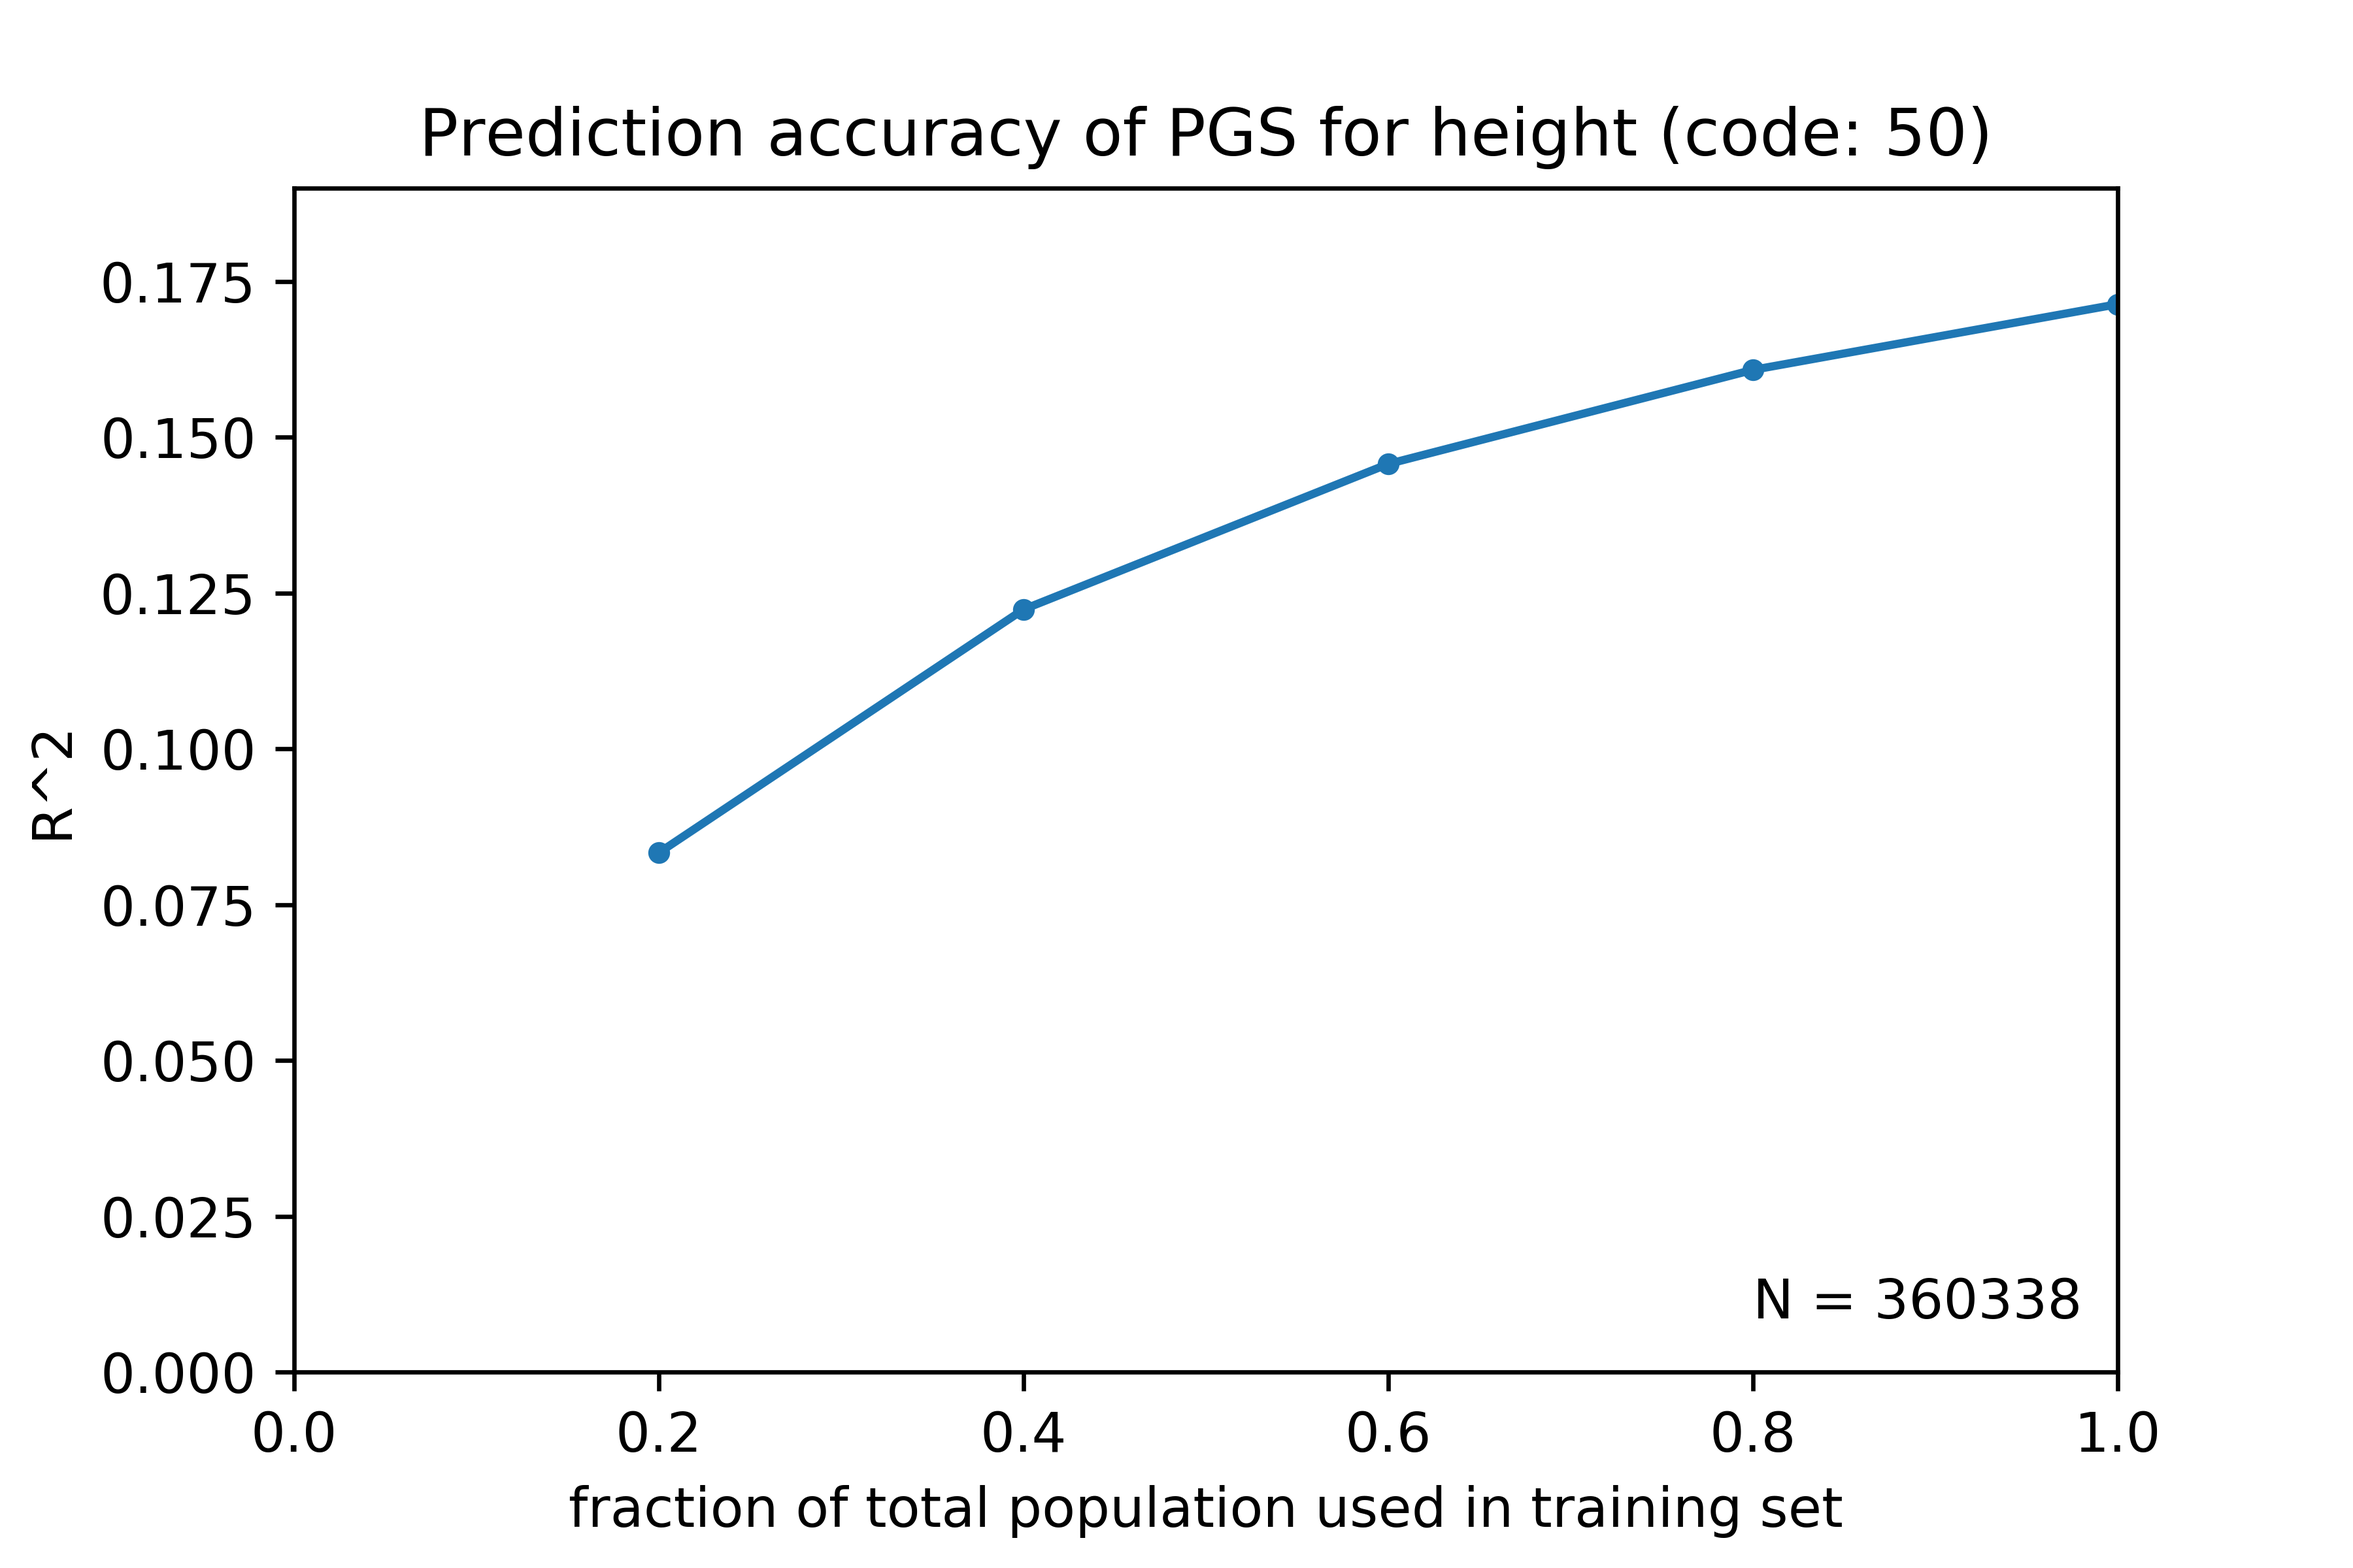
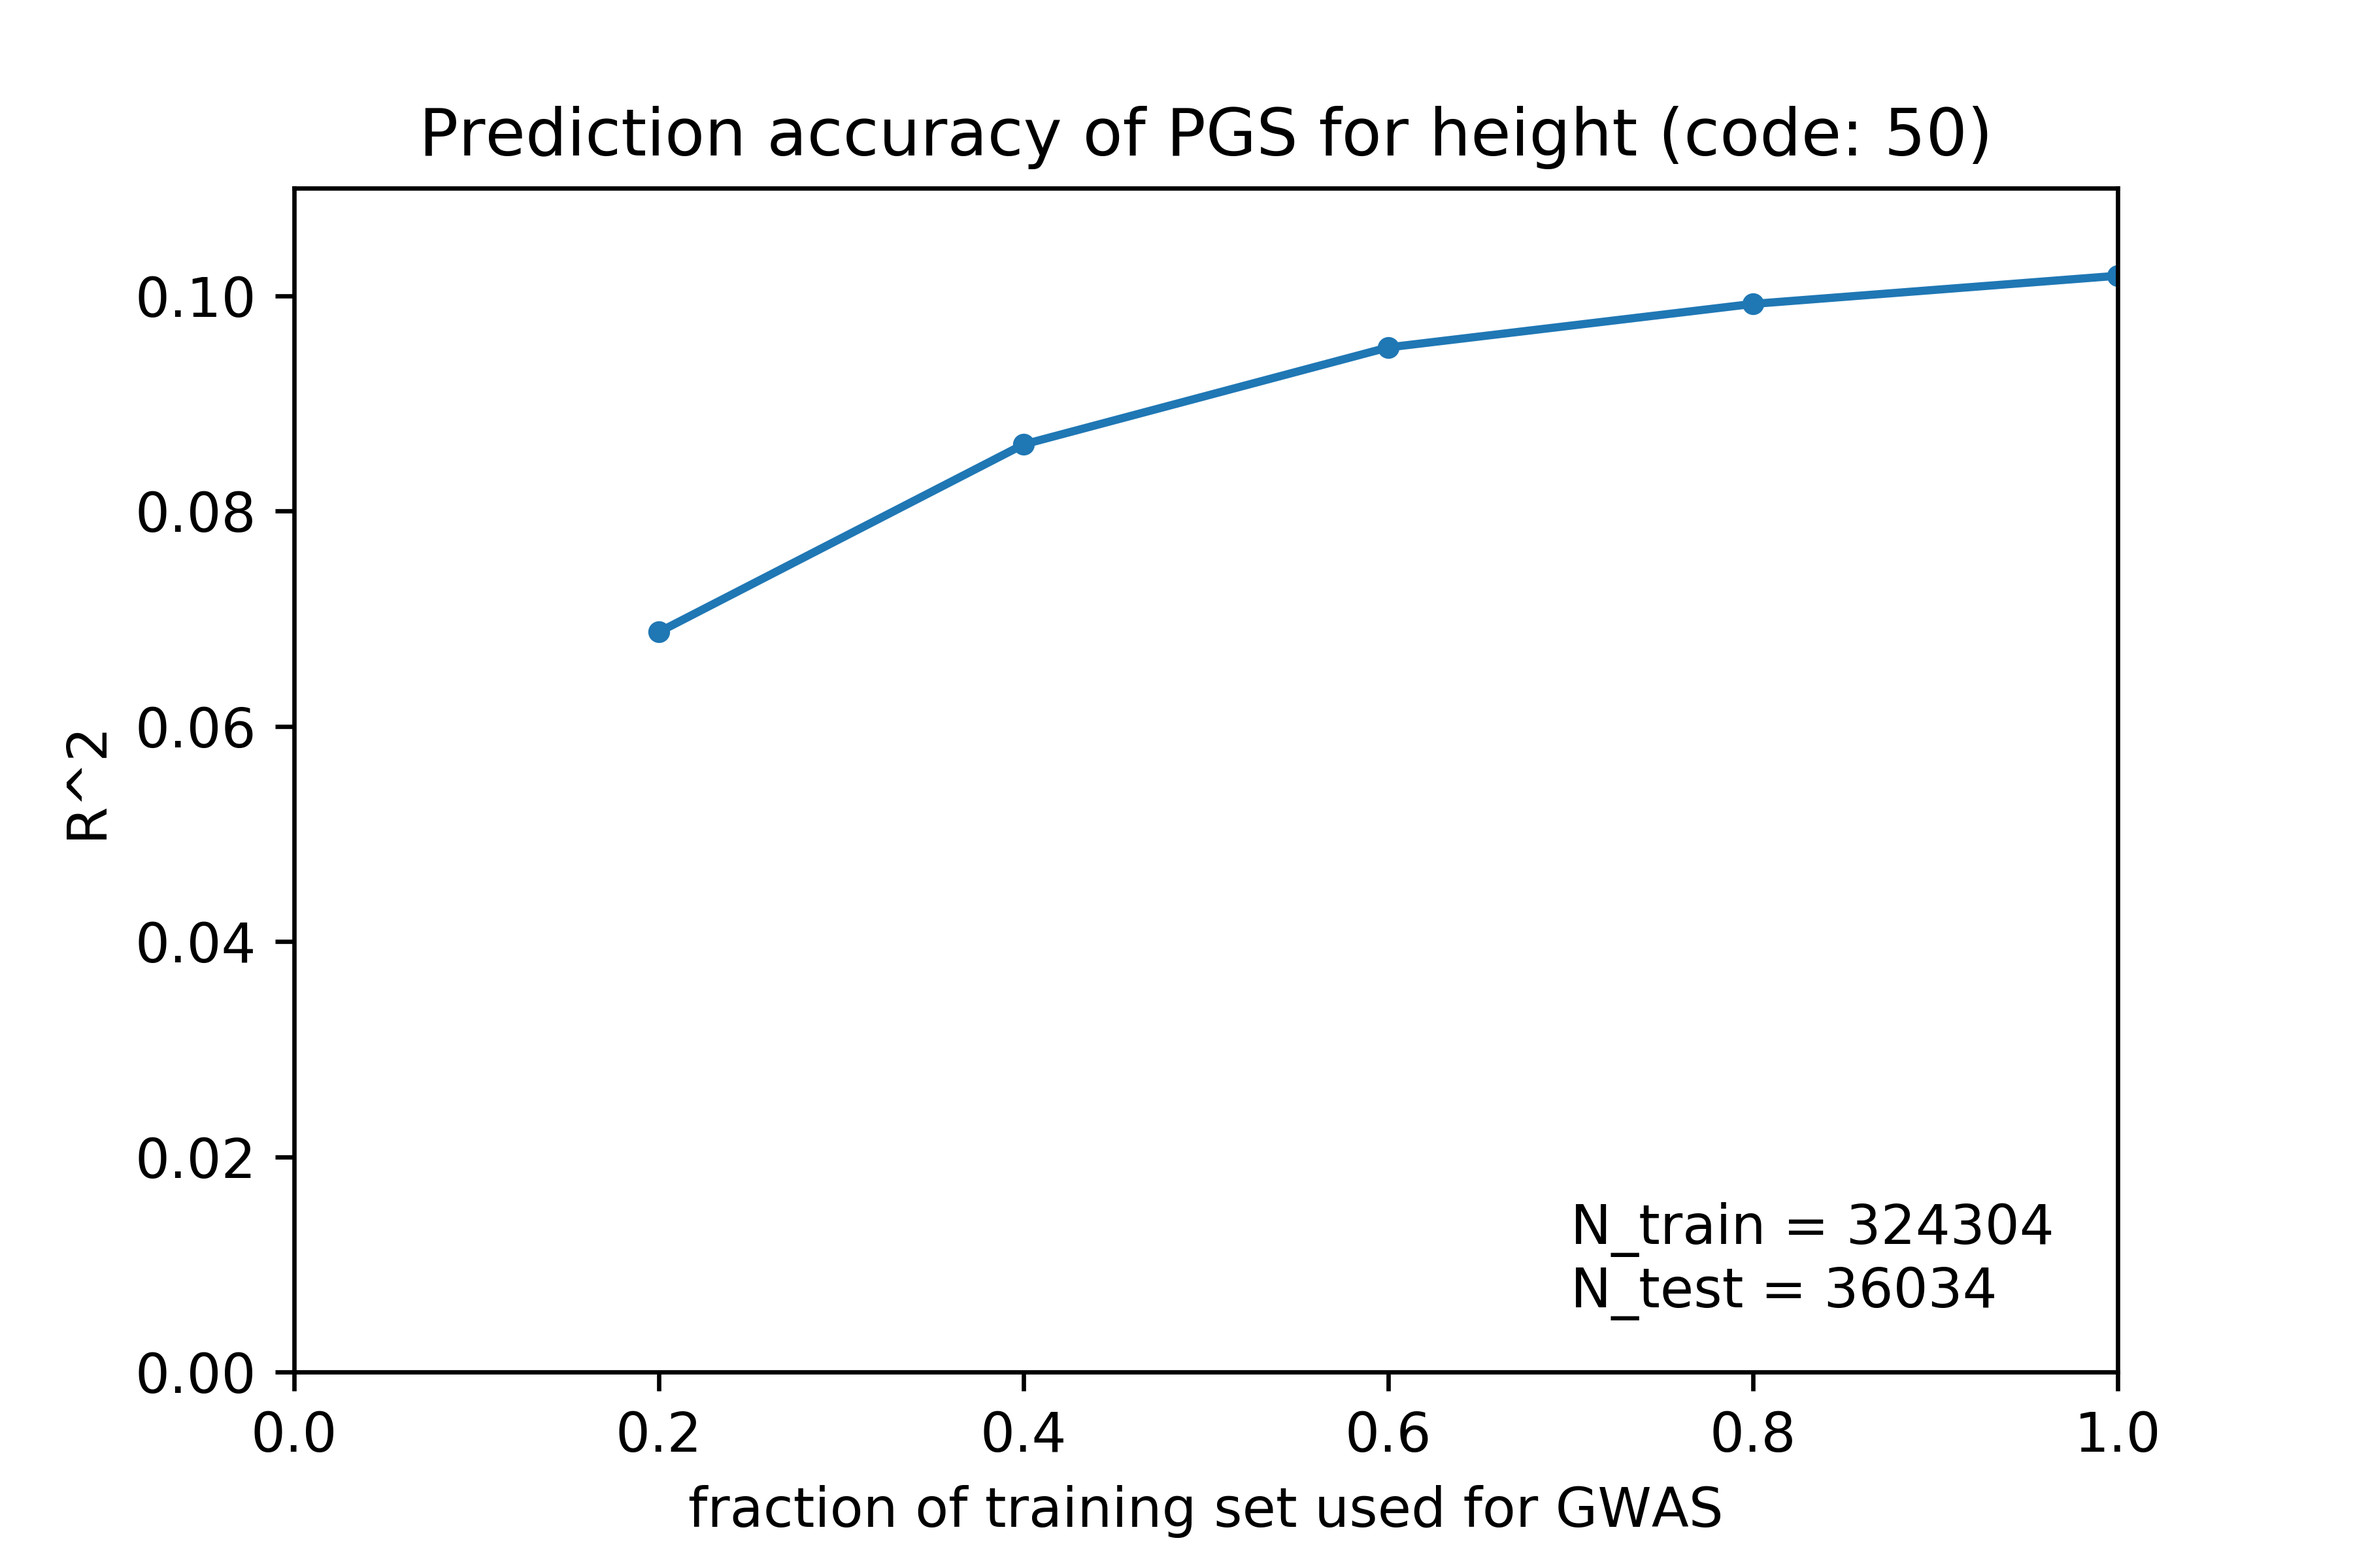
updated print statements

diff --git a/python/plot_pgs_corr.py b/python/plot_pgs_corr.py
@@ -19,10 +19,11 @@ import os
 cloud_wd = 'gs://nbaya/risk_gradients/'
 gwas_wd = cloud_wd+'gwas/'
 phen_dict = {
-    '50':['height', 360338, 0],
-    '2443':['diabetes', 360142, 17272],
-    '21001':['BMI',359933, 0],
+    '50':['height', 360338, 0, 324304, 0],
+    '2443':['diabetes', 360142, 17272, 324128, 15494],
+    '21001':['BMI',359933, 0, 323940, 0]
 }
+
 
 local_wd = '/Users/nbaya/Documents/lab/risk_gradients/'
 
@@ -46,9 +47,11 @@ frac_con_ls = [1]
 
 n = phen_dict[phen][1]
 n_cas = phen_dict[phen][2]
+n_train = phen_dict[phen][3]
+n_cas_train = phen_dict[phen][4]
 seed = 1
 
-df_path = f'{local_wd}{phen_dict[phen][0]}_pgs.tsv'
+df_path = f'{local_wd}data/pgs_results.{phen}.desc_{phen_dict[phen][0]}.tsv'
 
 if os.path.isfile(df_path):
     df = pd.read_csv(df_path,delimiter='\t')
@@ -57,41 +60,48 @@ else:
                                'n_test','n_cas_test','r','pval'])
     i = 0
     for frac_all in frac_all_ls:
-        n_new0 = int(n*frac_all)
+        n_new0 = int(n_train*frac_all)
         for frac_cas in frac_cas_ls:
-            n_cas_new = int(n_cas*frac_cas)
+            n_cas_new = int(n_cas_train*frac_cas)
             for frac_con in frac_con_ls:
                 n_new = int(frac_con*(n_new0-n_cas_new)+n_cas_new)
                 if frac_con == 1 and frac_cas ==1:
-                    suffix = f'.{phen}.n_{n_new}of{n}.seed_{seed}'
+                    suffix = f'.{phen}.n_{n_new}of{n_train}.seed_{seed}'
                 else:
-                    suffix = f'.{phen}.n_{n_new}of{n}.n_cas_{n_cas_new}of{n_cas}.seed_{seed}'
-                if not os.path.isfile(f'{local_wd}corr{suffix}.tsv'):
-                    subprocess.call(f'gsutil cp {cloud_wd}corr{suffix}.tsv'.split(' '))
-                result = pd.read_csv(f'{local_wd}corr{suffix}.tsv',sep='\t')
-                df.loc[i] = [result['phen'],result['desc'],n,n_cas,result['n_train'],
-                             result['n_cas_train'], result['n_test'],result['n_cas_test'].
-                             result['r'], result['pval']]
+                    suffix = f'.{phen}.n_{n_new}of{n_train}.n_cas_{n_cas_new}of{n_cas_train}.seed_{seed}'
+                if not os.path.isfile(f'{local_wd}data/corr{suffix}.tsv'):
+                    subprocess.call(f'gsutil cp {cloud_wd}corr{suffix}.tsv {local_wd}data/'.split(' '))
+                if not os.path.isfile(f'{local_wd}data/corr{suffix}.tsv'):
+                    print(f'{cloud_wd}corr{suffix}.tsv does not exist, using null values instead')
+                    row = [float('nan')]*10
+                else:
+                    result = pd.read_csv(f'{local_wd}data/corr{suffix}.tsv',sep='\t')
+                    row = [result['phen'].values[0],result['desc'].values[0],n,n_cas,n_new,n_cas_new,
+                                 result['n_test'].values[0],result['n_cas_test'].values[0],result['r'].values[0], 
+                                 result['pval'].values[0]]
+                df.loc[i] = row
                 i += 1
-    df['inv_n_new'] = 1/df.n_new
-    df['inv_R2'] = 1/df.r_all**2
+    df['inv_n_train'] = 1/df.n_train
+    df['inv_R2'] = 1/df.r**2
 
 df = df.dropna()
 
-plt.plot(df.n_new/df.n, df.r_all**2,'.-')
-plt.xlabel('fraction of total population used in training set')
+plt.plot(df.n_train/phen_dict[phen][3], df.r**2,'.-')
+plt.xlabel('fraction of training set used for GWAS')
 plt.ylabel('R^2')
 plt.xlim([0,1])
-plt.ylim([0,round(max(df.r_all**2)*1.1,2)])
+plt.ylim([0,round(max(df.r**2)*1.1,(2 if max(df.r**2)>0.1 else 3))])
 plt.title(f'Prediction accuracy of PGS for {phen_dict[phen][0]} (code: {phen})')
-plt.text(x=0.8,y=max(df.r_all**2)*0.05,s=f'N = {phen_dict[phen][1]}')
+plt.text(x=(0.65 if n_cas>0 else 0.7),
+         y=max(df.r**2)*(0.06 if n_cas>0 else 0.05),
+         s=f'N_train = {phen_dict[phen][3]}'+(f'\nN_cas_train = {phen_dict[phen][4]}' if n_cas>0 else ''))
 fig=plt.gcf()
 fig.savefig(f'{local_wd}plots/{phen}_pgs_prediction.png',dpi=600)
 plt.close()
-
+    
 if n_cas > 0:
     x = (1/df.n_cas_new + 1/(df.n_new-df.n_cas_new))
-    y = 1/df.r_all**2
+    y = 1/df.r**2
     plt.plot(x, y,'.-')
     plt.xlabel('1/N_e')
     plt.ylabel('1/R^2')
@@ -106,7 +116,7 @@ if n_cas > 0:
     fig=plt.gcf()
     fig.savefig(f'{local_wd}plots/{phen}_inv_Neff_inv_R2.png',dpi=600)
     plt.close()
-
+        
 plt.plot(df.inv_n_new, df.inv_R2,'.-')
 result = sm.OLS(df.inv_R2.tolist(),sm.add_constant(df.inv_n_new.tolist())).fit()
 R2 = result.rsquared
@@ -122,4 +132,7 @@ plt.legend(['1/N vs. 1/R^2','OLS fit'],loc='lower right')
 fig=plt.gcf()
 fig.savefig(f'{local_wd}plots/{phen}_pgs_prediction_linearized.png',dpi=600)
 
-df.to_csv(f'{local_wd}{phen_dict[phen][0]}_pgs.tsv',sep='\t',index=False)
+
+
+
+df.to_csv(df_path,sep='\t',index=False)

diff --git a/python/downsample_gwas.py b/python/downsample_gwas.py
@@ -41,7 +41,8 @@ phen_dict = {
 }
 gwas_wd = 'gs://nbaya/risk_gradients/gwas/'
 
-def get_mt(phen, variant_set, seed=None, test_set=0.1):
+def get_mt(phen, variant_set, seed=None, test_frac=0.1):
+    start = dt.datetime.now()
     mt0 = hl.read_matrix_table(f'gs://nbaya/split/ukb31063.{variant_set}_variants.gwas_samples_repart.mt')
 
     print(f'\nReading UKB phenotype {phen_dict[phen]} (code: {phen})...')
@@ -67,13 +68,14 @@ def get_mt(phen, variant_set, seed=None, test_set=0.1):
 
     n = mt1.count_cols()
     n_cas = mt1.filter_cols(mt1.phen == 1).count_cols()
-
+    
     #Create training and testing matrix tables
     seed = seed if seed is not None else int(str(Env.next_seed())[:8])
-    n_train = int(round(n*(1-test_set)))
+    n_train = int(round(n*(1-test_frac)))
     n_test = n-n_train
-    print('*****************')
-    print(f'Setting {test_set} of total population to be in the testing set')
+    
+    print('\n*****************')
+    print(f'Setting {test_frac} of total population to be in the testing set')
     print(f'n_train = {n_train}\tn_test = {n_test}')
     print(f'seed = {seed}')
     print('*****************')
@@ -82,23 +84,20 @@ def get_mt(phen, variant_set, seed=None, test_set=0.1):
     randstate.shuffle(labels)
     mt2 = mt1.add_col_index('tmp_index').key_cols_by('tmp_index')
     mt3 = mt2.annotate_cols(set = hl.literal(labels)[hl.int32(mt2.tmp_index)])
-    # if not train_mt_done:
-    # mt3.filter_cols(mt3.label == 'train').write(train_mt_path,overwrite=True)
-    # if not test_mt_done:
-    # mt3.filter_cols(mt3.label == 'test').write(test_mt_path, overwrite=True)
-    # train_mt = hl.read_matrix_table(train_mt_path)
-    # test_mt = hl.read_matrix_table(test_mt_path)
     train_mt = mt3.filter_cols(mt3.set == 'train')
     test_mt = mt3.filter_cols(mt3.set == 'test')
 
     n_cas_train = train_mt.filter_cols(train_mt.phen == 1).count_cols()
     n_cas_test = test_mt.filter_cols(test_mt.phen == 1).count_cols()
 
-    print('*****************')
+    elapsed = dt.datetime.now() - start
+    print('\n*****************')
+    print(f'n_cas: {n_cas}\nn_cas_train: {n_cas_train}\tn_cas_test: {n_cas_test}')
     print(f'Original prevalence of {phen_dict[phen]} (code: {phen}): {round(n_cas/n,6)}')
     print(f'Prevalence in training dataset: {round(n_cas_train/n_train,6)}')
     print(f'Prevalence in testing dataset: {round(n_cas_test/n_test,6)}')
-    print(f'If trait is not case/control, these will probably all be 0.')
+    print(f'(Note: If trait is not case/control, these will probably all be 0)')
+    print(f'Time to get training and testing sets: {round(elapsed.seconds/60, 2)} minutes')
     print('*****************')
 
     return train_mt, n_train, n_cas_train, test_mt, n_test, n_cas_test
@@ -175,9 +174,6 @@ if __name__ == "__main__":
             mt1, _, _ = downsample(mt=mt,frac=frac_all,phen=mt.phen,for_cases=None,seed=seed)
             for frac_cas in frac_cas_ls:
                 mt2, _, _ = downsample(mt=mt1,frac=frac_cas,phen=mt1.phen,for_cases=1,seed=seed)
-                # if len(frac_cas_ls)>1 or frac_cas_ls != [1]:
-                #     print('\ncheckpointing matrix table')
-                #     mt2 = mt2.checkpoint(f'{gwas_wd}tmp.mt')
                 for frac_con in frac_con_ls:
                     start_iter = dt.datetime.now()
                     mt3, n_new, n_cas_new = downsample(mt=mt2,frac=frac_con,phen=mt2.phen,for_cases=0,seed=seed)

diff --git a/python/calc_scores.py b/python/calc_scores.py
@@ -162,7 +162,7 @@ if __name__=="__main__":
                                                 'n_train':[n],'n_cas_train':[n_cas],
                                                 'n_test':[n_test],'n_cas_test':[n_cas_test],
                                                 'r':[r],'pval':[pval]})
-                    result.to_csv(path=f'{local_wd}corr{suffix}.tsv',sep='\t',index=False)
+                    result.to_csv(path_or_buf=f'{local_wd}corr{suffix}.tsv',sep='\t',index=False)
                     subprocess.call(['gsutil','cp',f'{local_wd}corr{suffix}.tsv',wd])
                     elapsed_r2 = dt.datetime.now()-start_r2
                     print('\nFinished calculating R^2')
